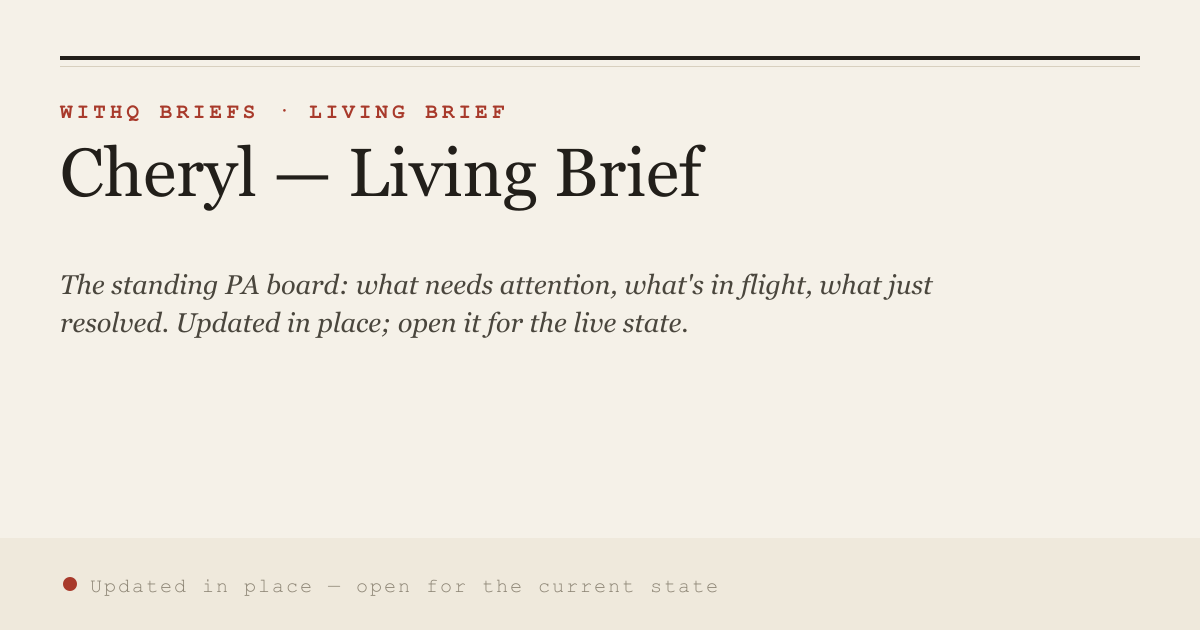
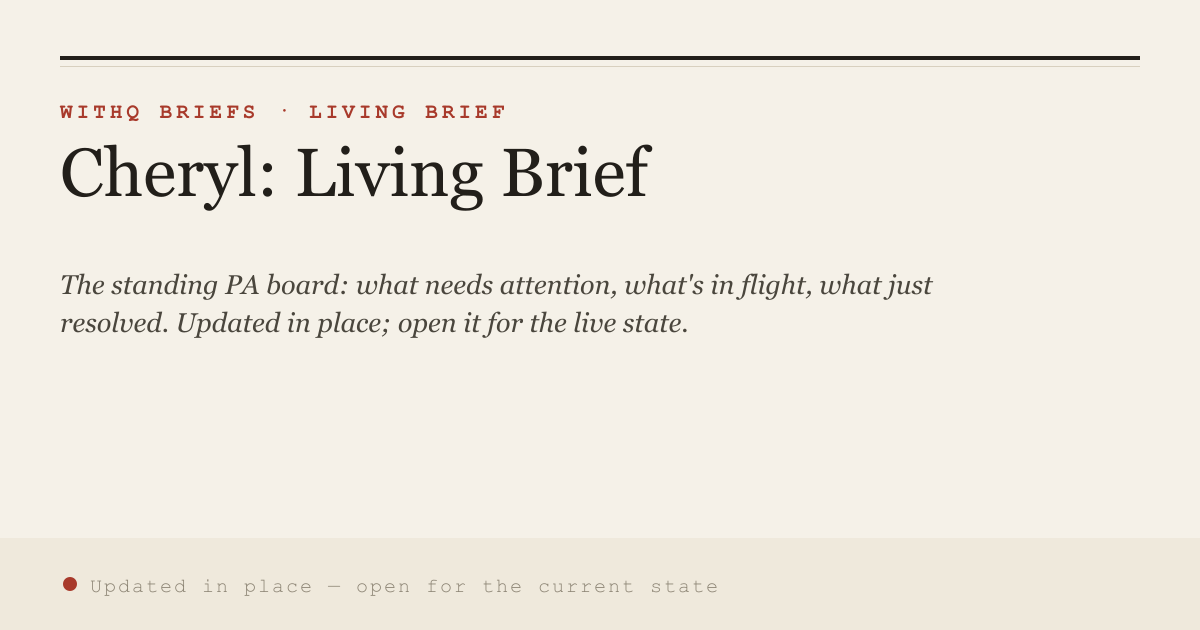
cards: sync org surface (83 cards, 39 skipped)

Changed region(s): [[0.2158, 0.2111, 0.5858, 0.3317]]

diff --git a/index.html b/index.html
@@ -15,10 +15,12 @@ a{color:var(--link)} ul{padding-left:1.1rem} li{margin:.35rem 0} .d{color:var(--
 <body>
 <p><strong>WithQ Briefs — preview cards.</strong></p>
 <p>Link-preview cards for the org-gated briefs site. Each card redirects to a
-brief that requires org sign-in. 82 cards.</p>
+brief that requires org sign-in. 83 cards.</p>
 <ul>
 <li><a href="platform-lead-living-brief.html">Platform-lead — Living Brief</a> <span class="d">The platform seat&#x27;s standing board: who holds the queue, where the build lane stands, what was decided. Updated in place; open it for the live state.</span></li>
-<li><a href="cheryl-living-brief.html">Cheryl — Living Brief</a> <span class="d">The standing PA board: what needs attention, what&#x27;s in flight, what just resolved. Updated in place; open it for the live state.</span></li>
+<li><a href="cheryl-living-brief.html">Cheryl: Living Brief</a> <span class="d">The standing PA board: what needs attention, what&#x27;s in flight, what just resolved. Updated in place; open it for the live state.</span></li>
+<li><a href="2026-11-17-guest-guide-design-choices.html">Guest guide design choices: what is being built, and what else you could pick</a> <span class="d">The design choices for a hotel guest guide app: the answer being built for each, the alternatives, and the merits and drawbacks of every option.</span></li>
+<li><a href="barry-living-brief.html">Barry — Living Brief</a> <span class="d">The barry seat&#x27;s standing board: what it is working on, what is blocked and on whom, and what it needs from Cherub. Updated in place; open it for…</span></li>
 <li><a href="2026-11-09-week-ahead.html">Week of November 9</a> <span class="d">The founder&#x27;s week brief for November 9 to 13: where Friday left off, what moved over the weekend, the week day by day, and the decisions waiting on…</span></li>
 <li><a href="2026-11-08-connect-guest-app-architecture.html">The Connect Guest App: One App, Every Hotel as Data</a> <span class="d">How one guest-app build serves any hotel as data: today&#x27;s request path, a hotel&#x27;s own domain with edge caching, one contract for app and agent…</span></li>
 <li><a href="2026-11-05-operating-picture.html">The operating picture</a> <span class="d">How the founder wants to work with an agent team (one front door, specialists, a heads-up display, a small council) set beside the team as it runs…</span></li>
@@ -28,7 +30,6 @@ brief that requires org sign-in. 82 cards.</p>
 <li><a href="2026-11-04-factory-rethink-reads.html">Is the machinery still earning its keep?</a> <span class="d">Is the town&#x27;s machinery still earning its keep? Four reads of seats, scheduled scripts, pools and how work gets done, beside Alex&#x27;s town, and what…</span></li>
 <li><a href="2026-11-03-remote-control-explainer.html">Remote Control: your laptop sessions, from your phone</a> <span class="d">How to run a Claude Code session on your laptop from the Claude app or claude.ai/code, and what you can do from there.</span></li>
 <li><a href="2026-11-02-status-page-explained.html">How the status page actually works</a> <span class="d">How our public status page works, what powers it, and what comes next.</span></li>
-<li><a href="barry-living-brief.html">Barry — Living Brief</a> <span class="d">The barry seat&#x27;s standing board: what it is working on, what is blocked and on whom, and what it needs from Cherub. Updated in place; open it for…</span></li>
 <li><a href="2026-10-30-initiative-tpm-role.html">The Initiative TPM Role</a> <span class="d">A reusable role that owns one initiative from design to verified delivery, and who takes over after launch.</span></li>
 <li><a href="2026-10-30-rex-terminal-explainer.html">Rex, your new terminal: what it is and how to use it with the seats</a> <span class="d">Rex, the new terminal from Superlogical: tabs live in a background program and outlast the window. What it adds over Ghostty, and how to use it with…</span></li>
 <li><a href="2026-10-29-two-town-instruction-landscape.html">Two Towns, One Rulebook?</a> <span class="d">Which agents load which instructions in two agent towns, where the written rules disagree, and an ordered path to one shared set.</span></li>

diff --git a/2026-11-17-guest-guide-design-choices.html b/2026-11-17-guest-guide-design-choices.html
@@ -1,0 +1,36 @@
+<!doctype html>
+<html lang="en">
+<head>
+<meta charset="utf-8">
+<meta name="viewport" content="width=device-width, initial-scale=1">
+<title>Guest guide design choices: what is being built, and what else you could pick</title>
+<meta name="description" content="The design choices for a hotel guest guide app: the answer being built for each, the alternatives, and the merits and drawbacks of every option.">
+<meta name="robots" content="noindex">
+<meta property="og:type" content="article">
+<meta property="og:site_name" content="WithQ Briefs">
+<meta property="og:title" content="Guest guide design choices: what is being built, and what else you could pick">
+<meta property="og:description" content="The design choices for a hotel guest guide app: the answer being built for each, the alternatives, and the merits and drawbacks of every option.">
+<meta property="og:url" content="https://quickserve-ai.github.io/briefs-cards/2026-11-17-guest-guide-design-choices.html">
+<meta property="og:image" content="https://quickserve-ai.github.io/briefs-cards/2026-11-17-guest-guide-design-choices.png">
+<meta property="og:image:width" content="1200">
+<meta property="og:image:height" content="630">
+<meta property="og:image:alt" content="Guest guide design choices: what is being built, and what else you could pick">
+<meta name="twitter:card" content="summary_large_image">
+<meta name="twitter:title" content="Guest guide design choices: what is being built, and what else you could pick">
+<meta name="twitter:description" content="The design choices for a hotel guest guide app: the answer being built for each, the alternatives, and the merits and drawbacks of every option.">
+<meta name="twitter:image" content="https://quickserve-ai.github.io/briefs-cards/2026-11-17-guest-guide-design-choices.png">
+<meta http-equiv="refresh" content="0;url=https://ideal-doodle-r3yey16.pages.github.io/2026-11-17-guest-guide-design-choices.html">
+<script>location.replace("https://ideal-doodle-r3yey16.pages.github.io/2026-11-17-guest-guide-design-choices.html");</script>
+<style>
+  body { font: 16px/1.6 Georgia, serif; background: #f5f1e8; color: #221f1a;
+         max-width: 640px; margin: 18vh auto; padding: 0 1.25rem; }
+  a { color: #a83a2b; }
+</style>
+</head>
+<body>
+<p><strong>Guest guide design choices: what is being built, and what else you could pick</strong></p>
+<p>The design choices for a hotel guest guide app: the answer being built for each, the alternatives, and the merits and drawbacks of every option.</p>
+<p>Taking you to the brief… (org sign-in required)
+   <a href="https://ideal-doodle-r3yey16.pages.github.io/2026-11-17-guest-guide-design-choices.html">Continue →</a></p>
+</body>
+</html>

diff --git a/cheryl-living-brief.html b/cheryl-living-brief.html
@@ -3,20 +3,20 @@
 <head>
 <meta charset="utf-8">
 <meta name="viewport" content="width=device-width, initial-scale=1">
-<title>Cheryl — Living Brief</title>
+<title>Cheryl: Living Brief</title>
 <meta name="description" content="The standing PA board: what needs attention, what&#x27;s in flight, what just resolved. Updated in place; open it for the live state.">
 <meta name="robots" content="noindex">
 <meta property="og:type" content="article">
 <meta property="og:site_name" content="WithQ Briefs">
-<meta property="og:title" content="Cheryl — Living Brief">
+<meta property="og:title" content="Cheryl: Living Brief">
 <meta property="og:description" content="The standing PA board: what needs attention, what&#x27;s in flight, what just resolved. Updated in place; open it for the live state.">
 <meta property="og:url" content="https://quickserve-ai.github.io/briefs-cards/cheryl-living-brief.html">
 <meta property="og:image" content="https://quickserve-ai.github.io/briefs-cards/cheryl-living-brief.png">
 <meta property="og:image:width" content="1200">
 <meta property="og:image:height" content="630">
-<meta property="og:image:alt" content="Cheryl — Living Brief">
+<meta property="og:image:alt" content="Cheryl: Living Brief">
 <meta name="twitter:card" content="summary_large_image">
-<meta name="twitter:title" content="Cheryl — Living Brief">
+<meta name="twitter:title" content="Cheryl: Living Brief">
 <meta name="twitter:description" content="The standing PA board: what needs attention, what&#x27;s in flight, what just resolved. Updated in place; open it for the live state.">
 <meta name="twitter:image" content="https://quickserve-ai.github.io/briefs-cards/cheryl-living-brief.png">
 <meta http-equiv="refresh" content="0;url=https://ideal-doodle-r3yey16.pages.github.io/cheryl-living-brief.html">
@@ -28,7 +28,7 @@
 </style>
 </head>
 <body>
-<p><strong>Cheryl — Living Brief</strong></p>
+<p><strong>Cheryl: Living Brief</strong></p>
 <p>The standing PA board: what needs attention, what&#x27;s in flight, what just resolved. Updated in place; open it for the live state.</p>
 <p>Taking you to the brief… (org sign-in required)
    <a href="https://ideal-doodle-r3yey16.pages.github.io/cheryl-living-brief.html">Continue →</a></p>
